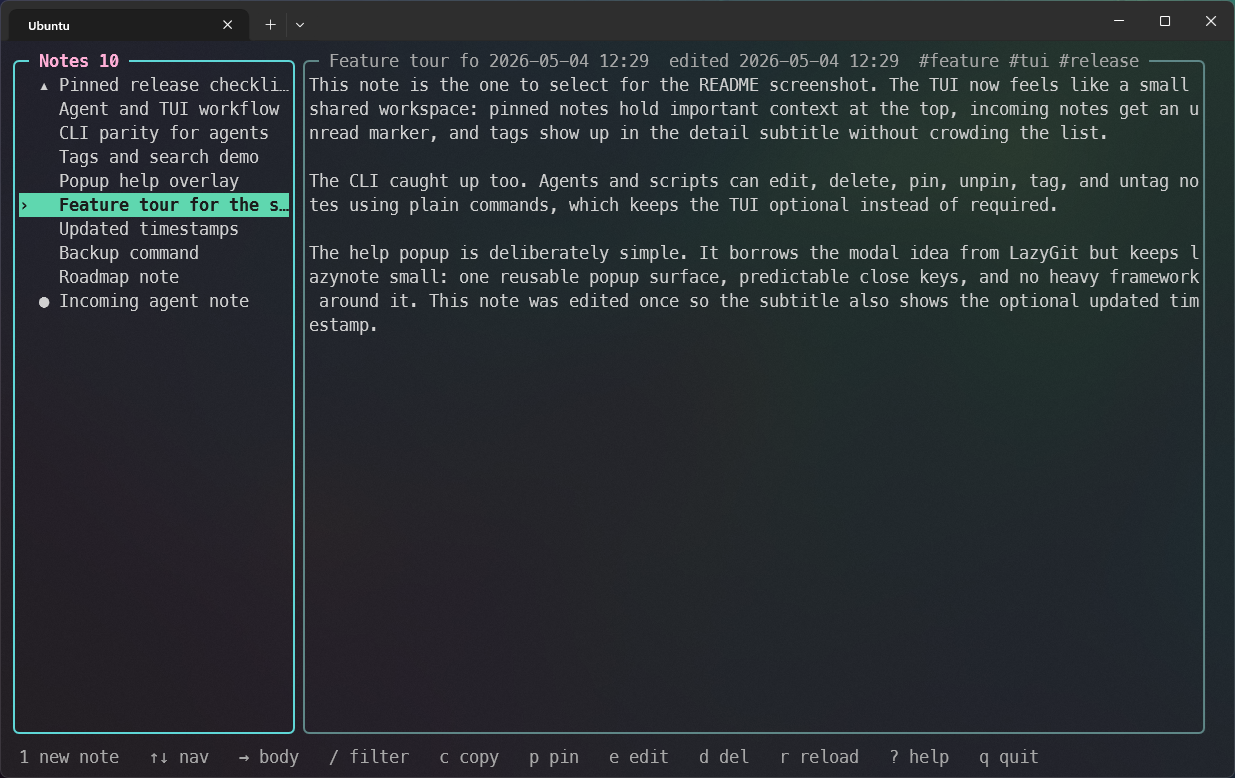
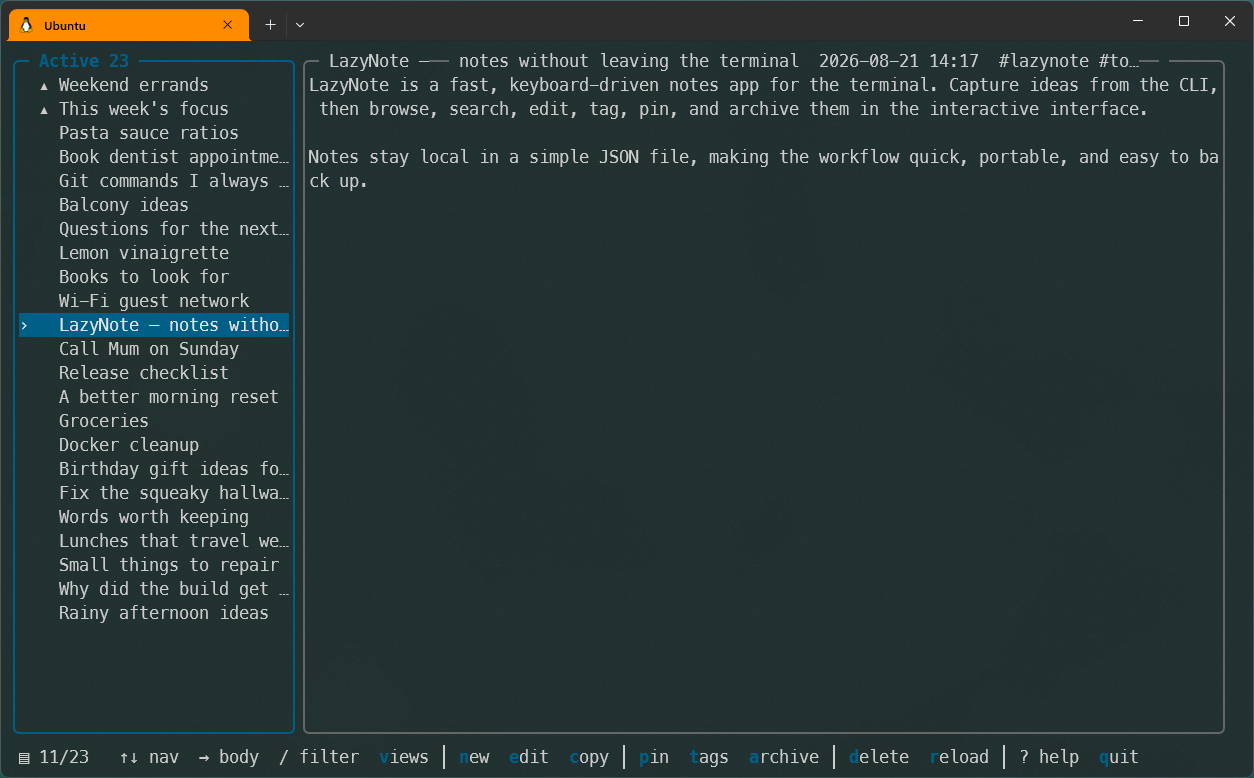
feat: polish CLI and project documentation

Changed region(s): [[0.0, 0.0, 0.9846, 1.0], [0.9846, 0.9871, 1.0, 1.0]]

diff --git a/cmd/lazynote/main_test.go b/cmd/lazynote/main_test.go
@@ -176,11 +176,22 @@ func TestRunPrintsHelp(t *testing.T) {
 	}
 
 	got := stdout.String()
-	if !bytes.Contains([]byte(got), []byte("Usage:")) {
-		t.Fatalf("stdout = %q, want usage text", got)
-	}
-	if !bytes.Contains([]byte(got), []byte("LAZYNOTE_PATH")) {
-		t.Fatalf("stdout = %q, want environment help", got)
+	for _, want := range []string{
+		"Usage:",
+		"lazynote show [--body|-b] <id>",
+		"lazynote rm <id>",
+		"lazynote pin [--toggle] <id>",
+		"lazynote export md",
+		"case- and accent-insensitive",
+		"LAZYNOTE_PATH",
+		"LAZYNOTE_CONFIG",
+		"LAZYNOTE_THEME",
+		"VISUAL",
+		"EDITOR",
+	} {
+		if !strings.Contains(got, want) {
+			t.Fatalf("stdout = %q, want documented surface %q", got, want)
+		}
 	}
 }
 
@@ -491,6 +502,49 @@ func TestRunPinsAndUnpinsNote(t *testing.T) {
 	}
 }
 
+func TestDocumentedCommandAliases(t *testing.T) {
+	path := filepath.Join(t.TempDir(), "notes.json")
+	t.Setenv("LAZYNOTE_PATH", path)
+
+	store := notes.NewStore(path)
+	note, err := store.Append("alias test", "body")
+	if err != nil {
+		t.Fatalf("append note: %v", err)
+	}
+
+	var stdout bytes.Buffer
+	if err := run([]string{"show", "-b", note.ID[:6]}, nil, &stdout); err != nil {
+		t.Fatalf("run show -b: %v", err)
+	}
+	if got, want := stdout.String(), "body\n"; got != want {
+		t.Fatalf("show -b stdout = %q, want %q", got, want)
+	}
+
+	stdout.Reset()
+	if err := run([]string{"pin", "--toggle", note.ID[:6]}, nil, &stdout); err != nil {
+		t.Fatalf("run pin --toggle: %v", err)
+	}
+	loaded, err := store.Load()
+	if err != nil {
+		t.Fatalf("load notes: %v", err)
+	}
+	if !loaded[0].Pinned {
+		t.Fatal("pin --toggle did not pin note")
+	}
+
+	stdout.Reset()
+	if err := run([]string{"rm", note.ID[:6]}, nil, &stdout); err != nil {
+		t.Fatalf("run rm: %v", err)
+	}
+	loaded, err = store.Load()
+	if err != nil {
+		t.Fatalf("load notes after rm: %v", err)
+	}
+	if len(loaded) != 0 {
+		t.Fatalf("loaded %d notes after rm, want 0", len(loaded))
+	}
+}
+
 func TestRunArchivesAndUnarchivesNote(t *testing.T) {
 	path := filepath.Join(t.TempDir(), "notes.json")
 	t.Setenv("LAZYNOTE_PATH", path)
@@ -529,6 +583,53 @@ func TestRunArchivesAndUnarchivesNote(t *testing.T) {
 	}
 	if loaded[0].Archived {
 		t.Fatal("note is still archived")
+	}
+}
+
+func TestArchivedNotesRemainAvailableToCLIAndAccentInsensitiveSearch(t *testing.T) {
+	path := filepath.Join(t.TempDir(), "notes.json")
+	t.Setenv("LAZYNOTE_PATH", path)
+
+	store := notes.NewStore(path)
+	note, err := store.Append("Café résumé", "naïve body")
+	if err != nil {
+		t.Fatalf("append note: %v", err)
+	}
+	if _, _, err := store.SetArchived(note.ID, true); err != nil {
+		t.Fatalf("archive note: %v", err)
+	}
+
+	commands := []struct {
+		name string
+		args []string
+	}{
+		{name: "list", args: []string{"list"}},
+		{name: "search", args: []string{"search", "cafe resume"}},
+		{name: "markdown export", args: []string{"export", "markdown"}},
+		{name: "markdown alias", args: []string{"export", "md"}},
+	}
+	for _, command := range commands {
+		t.Run(command.name, func(t *testing.T) {
+			var stdout bytes.Buffer
+			if err := run(command.args, nil, &stdout); err != nil {
+				t.Fatalf("run %v: %v", command.args, err)
+			}
+			if got := stdout.String(); !strings.Contains(got, note.ID) || !strings.Contains(got, "archived") {
+				t.Fatalf("stdout = %q, want archived note %s", got, note.ID)
+			}
+		})
+	}
+
+	var stdout bytes.Buffer
+	if err := run([]string{"export", "json"}, nil, &stdout); err != nil {
+		t.Fatalf("run JSON export: %v", err)
+	}
+	var exported []notes.Note
+	if err := json.Unmarshal(stdout.Bytes(), &exported); err != nil {
+		t.Fatalf("decode JSON export: %v", err)
+	}
+	if len(exported) != 1 || exported[0].ID != note.ID || !exported[0].Archived {
+		t.Fatalf("exported = %#v, want archived note %s", exported, note.ID)
 	}
 }
 

diff --git a/cmd/lazynote/main.go b/cmd/lazynote/main.go
@@ -183,10 +183,11 @@ func printUsage(w io.Writer) {
   command | lazynote <title>
   command | lazynote
   lazynote list
-  lazynote show [--body] <id>
+  lazynote show [--body|-b] <id>
   lazynote search <query>
   lazynote edit <id> [<title> <note>|<title> -]
   lazynote delete <id>
+  lazynote rm <id>
   lazynote pin [--toggle] <id>
   lazynote unpin <id>
   lazynote archive <id>
@@ -197,26 +198,28 @@ func printUsage(w io.Writer) {
   lazynote path
   lazynote backup [path]
   lazynote export markdown
+  lazynote export md
   lazynote export json
   lazynote
-  lazynote --version
-  lazynote --help
+  lazynote --version, -v
+  lazynote --help, -h
 
 Commands:
   <title> <note>  Append a note from arguments
   <title> -       Append a note using stdin as the body
   -- <title> <note>
                   Append a note whose title starts with a command or flag
-  list            List note IDs, timestamps, and titles
+  list            List all note IDs, timestamps, and titles, including archived
   show <id>       Print one note by ID or unique ID prefix
   show --body <id>
-                  Print only the note body
-  search <query>  List notes matching title, body, or tag text
+                  Print only the note body (alias: -b)
+  search <query>  List all notes matching title, body, or tag text
+                  Matching is case- and accent-insensitive
   edit <id>       Edit a note in $VISUAL, $EDITOR, or vi
   edit <id> <title> <note>
                   Replace a note from arguments
-  delete <id>     Delete a note
-  pin <id>        Pin a note
+  delete <id>     Delete a note (alias: rm)
+  pin <id>        Pin a note; --toggle flips its current state
   unpin <id>      Unpin a note
   archive <id>    Hide a note from the active TUI views
   unarchive <id>  Restore an archived note
@@ -227,7 +230,7 @@ Commands:
   tags <id>       Print a note's tags
   path            Print the notes JSON file path
   backup [path]   Copy the raw notes JSON file to a timestamped backup
-  export markdown Export all notes as Markdown
+  export markdown Export all notes as Markdown (alias: md)
   export json     Export all notes as JSON
   version         Print version information
   help            Print this help text
@@ -238,6 +241,10 @@ Options:
 
 Environment:
   LAZYNOTE_PATH   Override the notes JSON file path
+  LAZYNOTE_CONFIG Override the TUI config file path
+  LAZYNOTE_THEME  Override the configured TUI theme
+  VISUAL          Preferred editor for creating and editing notes
+  EDITOR          Editor fallback when VISUAL is not set
 `)
 }
 

diff --git a/README.md b/README.md
@@ -186,6 +186,7 @@ lazynote edit <id> 'new title' 'new body'
 lazynote edit <id> 'new title' - < body.md
 lazynote delete <id>
 lazynote pin <id>
+lazynote pin --toggle <id>
 lazynote unpin <id>
 lazynote archive <id>
 lazynote unarchive <id>
@@ -198,15 +199,24 @@ lazynote tags <id>
 the title and body without opening an editor. `tag` normalizes tags to
 lower-case names and accepts optional leading `#`.
 
+Search is case- and accent-insensitive, so queries such as `cafe` match
+`Café`. CLI `list`, `search`, `show`, and export commands include archived
+notes; archived entries are marked in summaries and exports. The TUI filters
+them into its Archived view instead.
+
+Convenience aliases are `rm` for `delete`, `show -b` for `show --body`, and
+`export md` for `export markdown`. `-h` and `-v` are short forms of `--help`
+and `--version`.
+
 `backup` prints the backup file path. With no path it writes a timestamped JSON
 copy under a `backups` directory next to the notes file. Pass a file path to
 choose the exact destination, or an existing directory for a timestamped backup
 inside that directory.
 
-Command words such as `list`, `show`, `search`, `edit`, `delete`, `pin`,
-`unpin`, `archive`, `unarchive`, `tag`, `untag`, `tags`, `path`, `backup`, and
-`export` are reserved when they are the first argument. Use `--` to use one as
-a title:
+Command words such as `list`, `show`, `search`, `edit`, `delete`, `rm`, `pin`,
+`unpin`, `archive`, `unarchive`, `tag`, `untag`, `tags`, `path`, `backup`,
+`export`, `help`, and `version` are reserved when they are the first argument.
+Use `--` to use one as a title:
 
 ```sh
 lazynote -- search 'a note whose title is search'
@@ -231,7 +241,11 @@ first:
 codex plugin marketplace add rschoch/lazynote
 ```
 
-Then open `/plugins` in Codex and install `lazynote`.
+Then open `/plugins` in Codex and install `lazynote`, or install it directly:
+
+```sh
+codex plugin add lazynote@lazynote
+```
 
 To pick up newer plugin instructions later, upgrade the marketplace source and
 update the installed plugin from `/plugins`:
@@ -260,19 +274,21 @@ does not require cloning `lazynote` first:
 /reload-plugins
 ```
 
-To pick up newer plugin instructions later, reinstall the plugin and reload:
+To pick up newer plugin instructions later, update the marketplace, reinstall
+the plugin, and reload if Claude Code asks you to:
 
 ```text
+/plugin marketplace update lazynote
 /plugin install lazynote@lazynote
 /reload-plugins
 ```
 
-Invoke the Claude Code skill with `/lazynote`:
+Invoke the namespaced Claude Code skill with `/lazynote:lazynote`:
 
 ```text
-/lazynote Save the proposed implementation plan.
-/lazynote Search for notes about release packaging.
-/lazynote Save a summary of this debugging session.
+/lazynote:lazynote Save the proposed implementation plan.
+/lazynote:lazynote Search for notes about release packaging.
+/lazynote:lazynote Save a summary of this debugging session.
 ```
 
 ## TUI
@@ -292,11 +308,12 @@ Keys:
 
 - left: focus note list
 - right: focus note body
-- down: move or scroll down in the active pane
-- up: move or scroll up in the active pane
+- down: move or scroll down in the active pane; the note list wraps to the top
+- up: move or scroll up in the active pane; the note list wraps to the bottom
 - PageDown: scroll note body down
 - PageUp: scroll note body up
-- `/`: filter notes by title, body, or `#tag`; Enter applies, Esc cancels
+- `/`: case- and accent-insensitive filter by title, body, or `#tag`; Enter
+  applies, Esc cancels
 - `r`: reload notes from disk now
 - `n`: create a note in `$VISUAL`, `$EDITOR`, or `vi`
 - `e`: edit the selected note in `$VISUAL`, `$EDITOR`, or `vi`
@@ -316,6 +333,9 @@ whose first line is the note title and whose remaining content is the note body.
 The default Active view hides archived notes. Archiving also clears the note's
 pin. Use `v` to open the view picker; Recent contains the 50 newest active
 notes, and tag views match exact tags.
+Tags have no separate registry: a tag disappears when no note uses it. Tags
+used only by archived notes remain available in the tag picker but do not get
+their own active tag view.
 The note body pane shows tags and edited timestamps when present. Pinned notes
 stay at the top of the list and use `▴` in the list gutter. Notes that arrive
 from another process while the TUI is open use `●` until selected. Fonts, glyph

diff --git a/plugins/lazynote/skills/lazynote/SKILL.md b/plugins/lazynote/skills/lazynote/SKILL.md
@@ -14,6 +14,7 @@ Use `lazynote` as a local notes layer for durable context that should survive th
 - For agent workflows, use the CLI commands. Do not open the TUI unless the user explicitly asks.
 - Do not inspect the lazynote source tree to figure out how to save notes; use the installed `lazynote` CLI.
 - Ask before saving credentials, tokens, secrets, or sensitive personal data unless the user explicitly requested that exact save.
+- Ask before permanently deleting a note unless the user explicitly requested that deletion.
 - Prefer short, descriptive titles.
 
 ## Save notes
@@ -40,7 +41,7 @@ For command output:
 some-command | lazynote --quiet 'diagnostic output'
 ```
 
-Use single quotes around literal shell text. If a title would collide with a command word such as `list` or `search`, use `--` before the title.
+Use single quotes around literal shell text. If a title would collide with a command word such as `list`, `search`, `help`, or `version`, use `--` before the title.
 
 ## Retrieve and manage notes
 
@@ -53,12 +54,20 @@ Use single quotes around literal shell text. If a title would collide with a com
 - Edit directly: `lazynote edit <id> 'new title' 'new body'`
 - Delete a note: `lazynote delete <id>`
 - Pin or unpin a note: `lazynote pin <id>` or `lazynote unpin <id>`
+- Archive or restore a note: `lazynote archive <id>` or `lazynote unarchive <id>`
 - Add or remove tags: `lazynote tag <id> work` or `lazynote untag <id> work`
 - Print a note's tags: `lazynote tags <id>`
 - Print the notes file path: `lazynote path`
 - Back up the raw notes JSON file: `lazynote backup` or `lazynote backup <path>`
 - Export everything: `lazynote export markdown` or `lazynote export json`
 
-`lazynote list` prints tab-separated `id`, `created_at`, and `title` fields, plus metadata when present. Most note commands accept a full note ID or a unique ID prefix.
+Search is case- and accent-insensitive. `lazynote list`, `search`, `show`, and
+both exports include archived notes; summaries and exports mark archived
+entries. Archiving clears a note's pin, and an archived note must be restored
+before it can be pinned again.
+
+`lazynote list` prints tab-separated `id`, `created_at`, and `title` fields,
+plus metadata when present. Most note commands accept a full note ID or a
+unique ID prefix.
 
 Do not edit the notes JSON file directly unless the user explicitly asks for low-level recovery or repair.

diff --git a/ROADMAP.md b/ROADMAP.md
@@ -15,11 +15,12 @@ commands that are easy for humans, scripts, and coding agents to use.
 - Auto-refresh in the TUI for notes written by other processes.
 - Lock-file write coordination and raw JSON backups.
 - TUI search, edit, manual refresh, pinned notes, unread markers, archive, and
-  active/pinned/recent/untagged/tag views.
+  active/pinned/recent/untagged/archived/tag views.
 - Create notes from inside the TUI using the configured external editor.
 - CLI edit, delete, pin, unpin, archive, unarchive, tag, untag, and tag
   inspection.
 - Optional note metadata for `tags`, `updated_at`, `pinned`, and `archived`.
+- Case- and accent-insensitive CLI and TUI search.
 - TUI help overlay via `?`.
 
 ## Future Candidates
